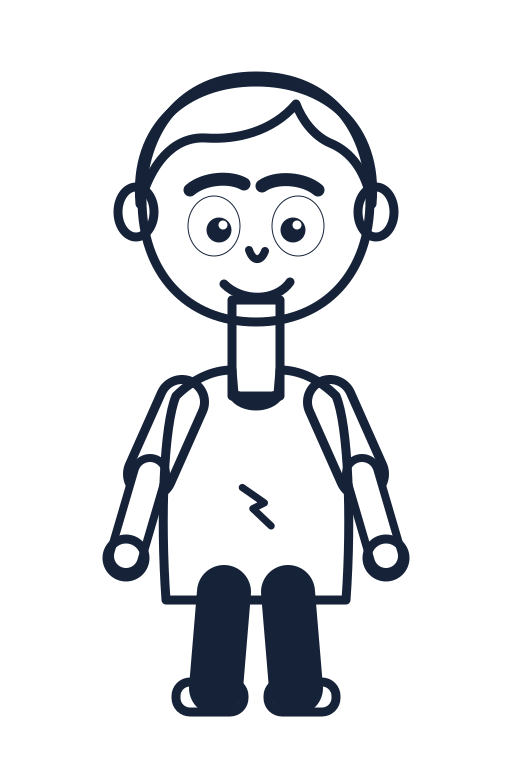
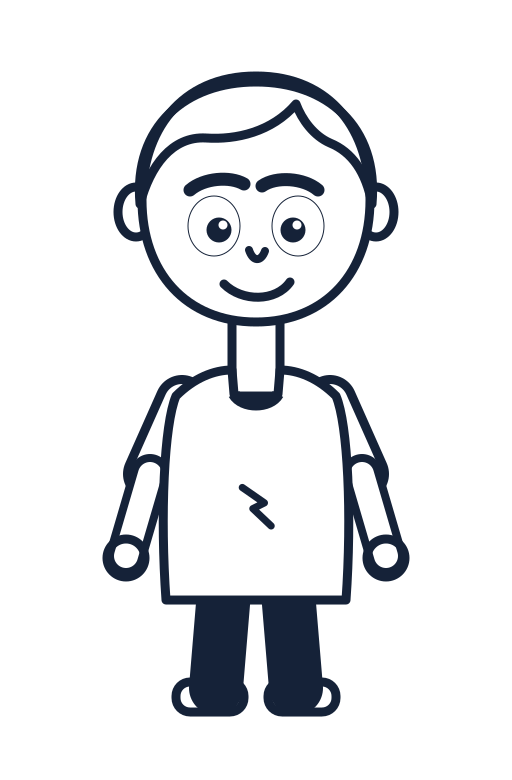
brand: hide hidden edges in the monochrome line art
The mono build converted every fill to an outline, so the neck showed its
bottom edge through the shirt and the sleeves showed through the torso. The
head and the shirt now knock out what sits behind them before drawing their
own stroke, and capsule pairs (sleeves, forearms) are cut to a ring instead of
collapsing into a solid bar.

diff --git a/assets/brand/tools/build.py b/assets/brand/tools/build.py
@@ -146,7 +146,7 @@ def _inject_spark(root, mono: str | None) -> None:
         root.insert(index, wrapper)
 
 
-def _mono_geometry(group):
+def _mono_geometry(group) -> list:
     """White paints ink, black cuts a hole. Strokes only: the mono build is
     line art, never a filled silhouette."""
     copy = ET.fromstring(ET.tostring(group))
@@ -169,7 +169,17 @@ def _mono_geometry(group):
     else:
         copy.set("fill", "none")
         copy.set("stroke", "#FFFFFF")
-    return copy
+
+    nodes = [copy]
+    if gid in ("head", "shirt"):
+        # Knock out whatever sits behind this shape so the line art does not
+        # show the edges of hidden parts through it (neck inside the shirt,
+        # neck inside the head).
+        knockout = ET.fromstring(ET.tostring(group))
+        knockout.set("fill", "#000000")
+        knockout.set("stroke", "none")
+        nodes.insert(0, knockout)
+    return nodes
 
 
 def art_markup(name: str, mono: str | None = None, indent: str = "  ") -> str:
@@ -177,7 +187,9 @@ def art_markup(name: str, mono: str | None = None, indent: str = "  ") -> str:
     root = ET.parse(SRC / name).getroot()
     _inject_spark(root, mono)
 
-    nodes = [_mono_geometry(node) for node in root] if mono else list(root)
+    nodes = list(root)
+    if mono:
+        nodes = [shape for node in root for shape in _mono_geometry(node)]
     wrapper = ET.Element("g")
     wrapper.extend(nodes)
     ET.indent(wrapper, "  ")
